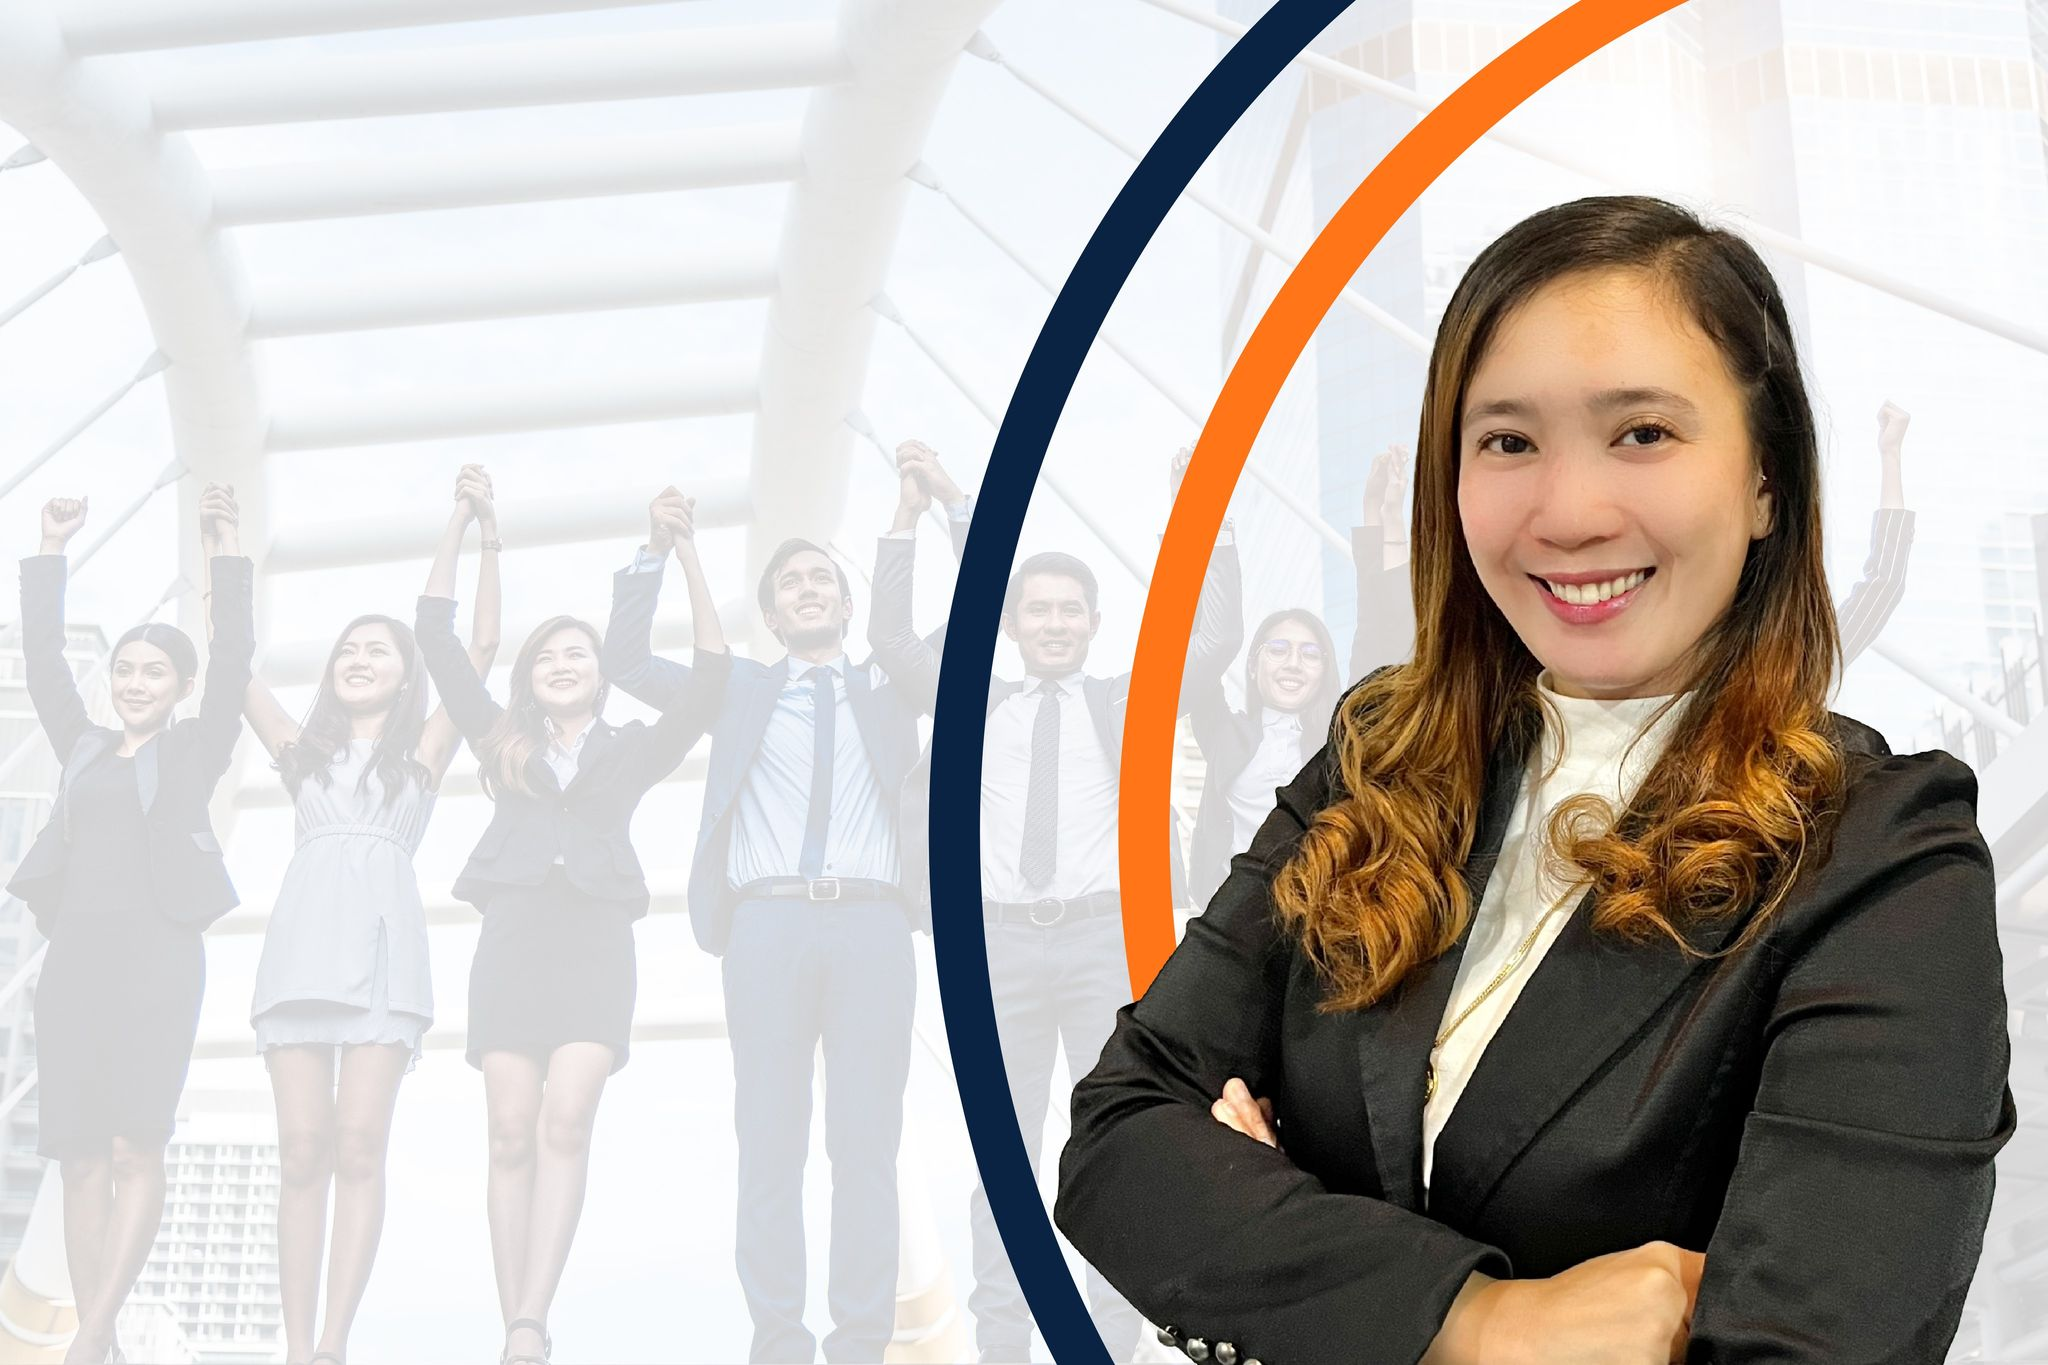
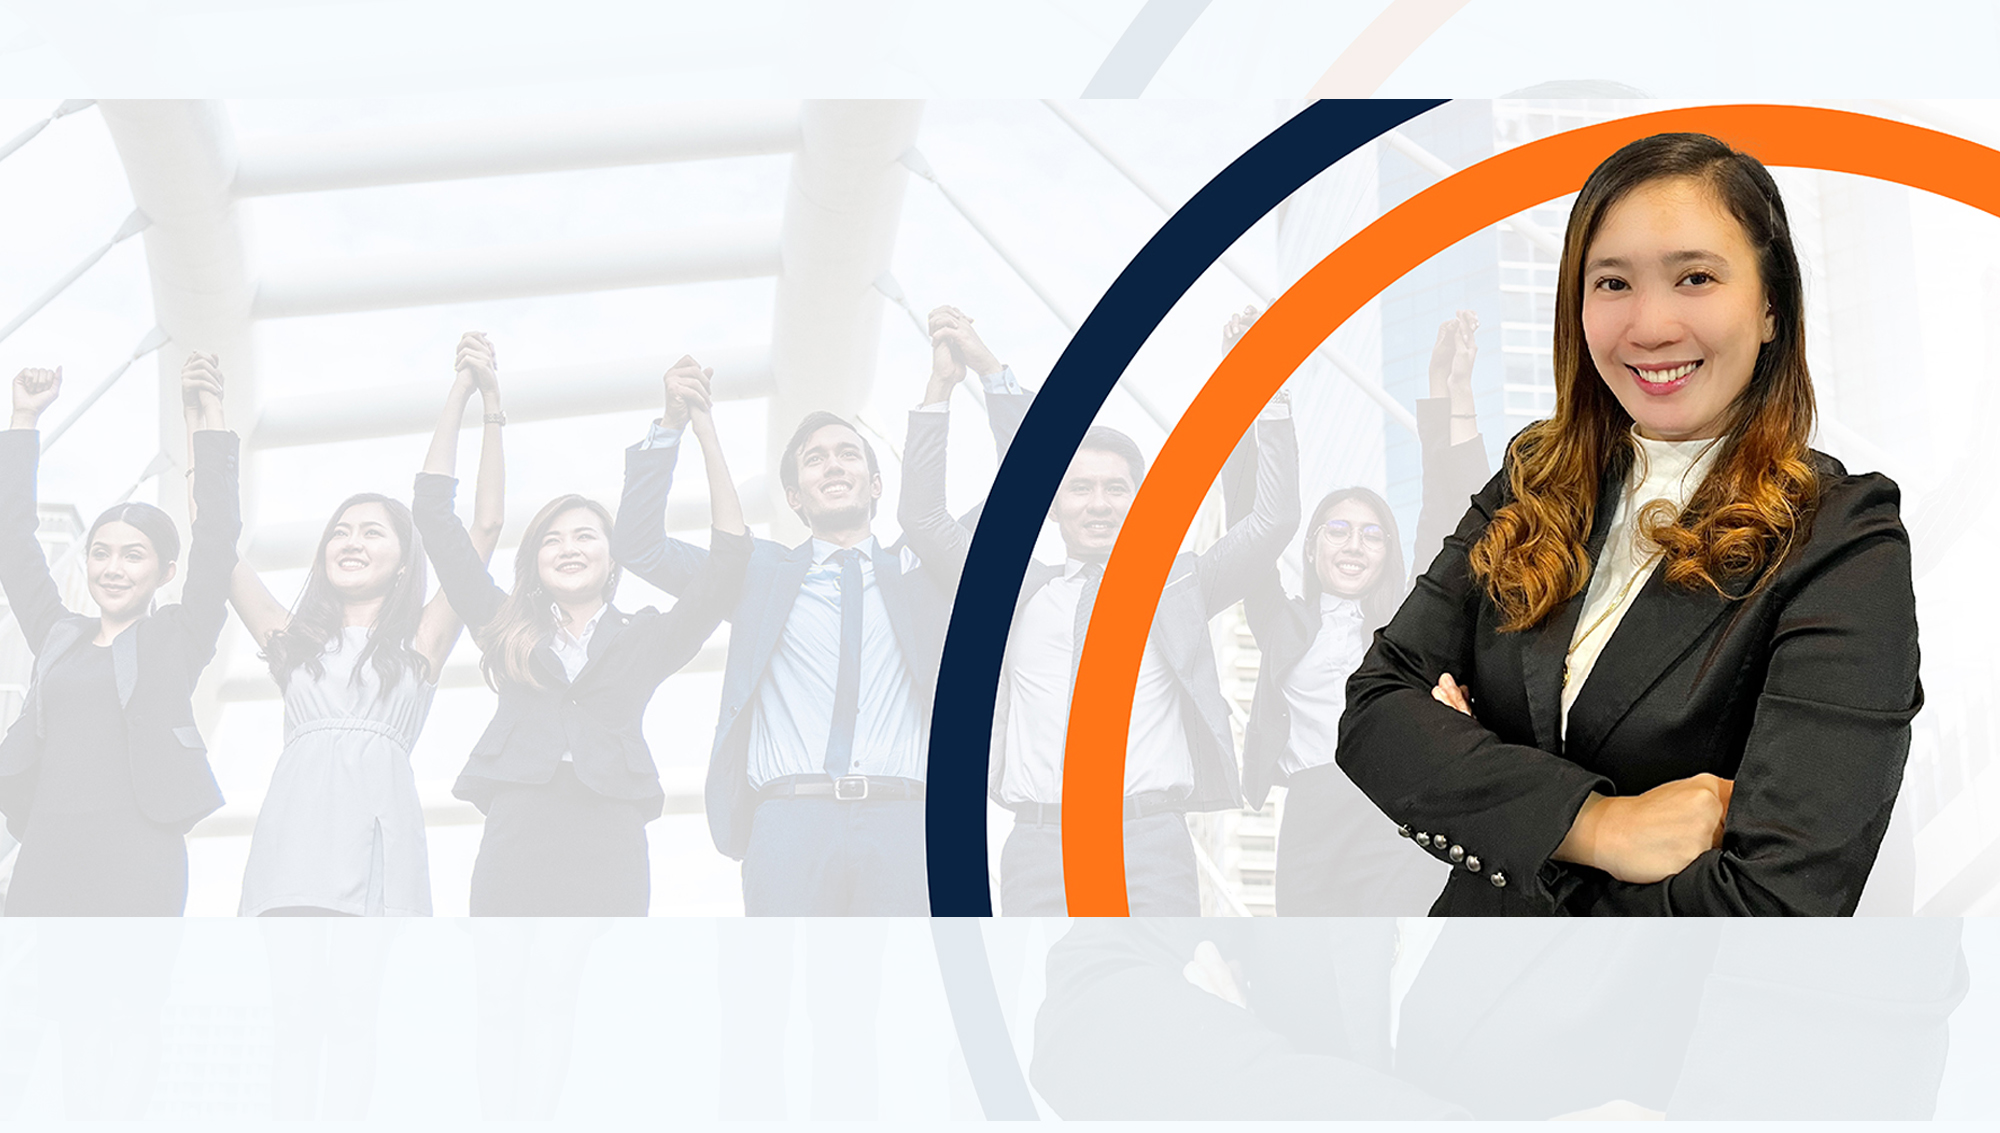
change front page

diff --git a/assets/css/altn.css b/assets/css/altn.css
@@ -730,7 +730,7 @@ p {
 
 #hero:before {
   content: "";
-  background: rgba(255, 255, 255, 0.6);
+  /* background: rgba(255, 255, 255, 0.6); */
   position: absolute;
   bottom: 0;
   top: 0;
